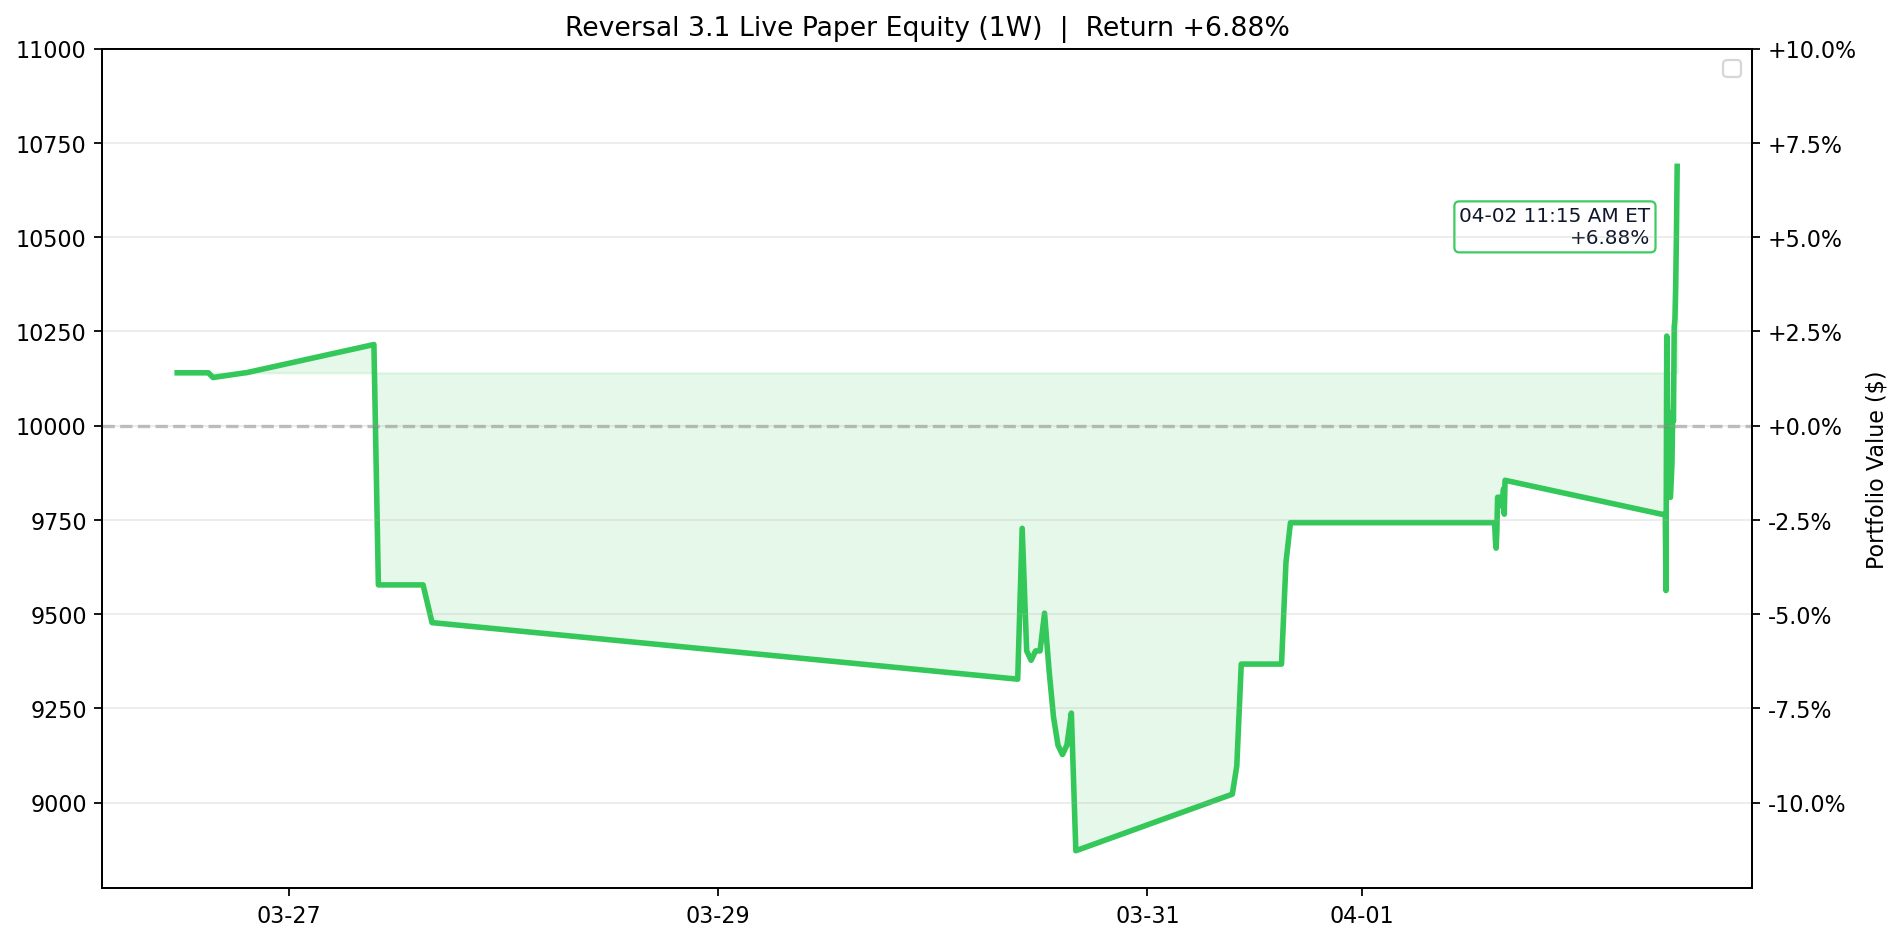
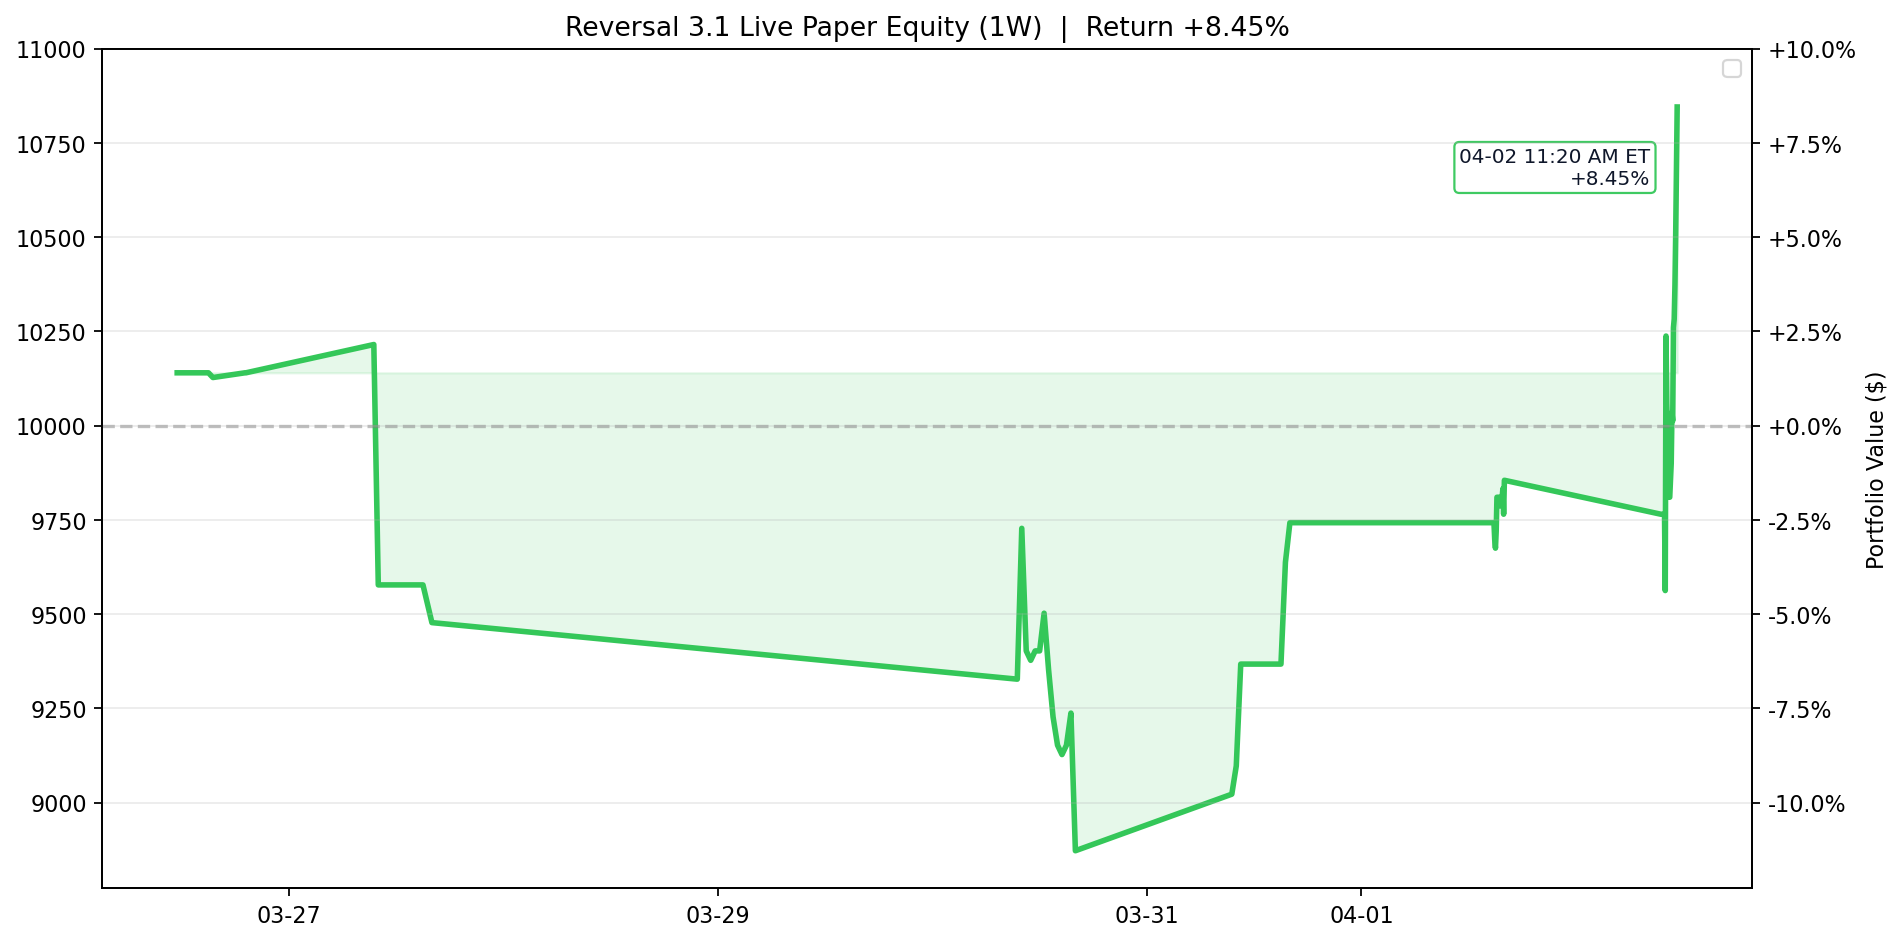
Update Reversal 3.1 live paper test 2026-04-02 11:20 ET

Changed region(s): [[0.7437, 0.123, 0.8986, 0.2768], [0.5268, 0.6458, 0.5578, 0.7073], [0.5888, 0.9533, 0.6197, 0.9841]]

diff --git a/results/reversal_3_1_live/README.md b/results/reversal_3_1_live/README.md
@@ -1,7 +1,7 @@
 # Reversal 3.1 Live Paper Test
 
-Last updated (ET): `2026-04-02 11:15:05 EDT`
-Last processed slot: `manual_refresh`
+Last updated (ET): `2026-04-02 11:20:05 EDT`
+Last processed slot: `manage_1130`
 
 ## Active Configuration
 
@@ -19,55 +19,55 @@ Last processed slot: `manual_refresh`
 
 ## Portfolio Snapshot
 
-- Cash: `$5,355.00`
-- Equity: `$10,687.50`
-- Realized PnL: `$-257.50`
-- Unrealized PnL: `$945.00`
-- Open positions: `1`
+- Cash: `$10,845.00`
+- Equity: `$10,845.00`
+- Realized PnL: `$845.00`
+- Unrealized PnL: `$0.00`
+- Open positions: `0`
 
 ## Open Positions
 
-```text
-ticker     contract_symbol entry_trade_date  business_days_held  entry_option_price  current_option_price  entry_spot  current_spot  unrealized_pnl  unrealized_return_pct  success_rate  matched_signals  current_drop_pct  entry_iv_pct  current_iv_pct  rolling_sigma_20d_pct
-  NFLX NFLX260508C00096000       2026-04-01                   1                4.88                  5.92       95.56         97.85           945.0                  21.54         94.87               39              0.58         41.74           42.85                  24.42
-```
+_None_
 
 ## Today's Closed Trades (2026-04-02)
 
-_None_
+```text
+ticker     contract_symbol entry_trade_date_et exit_trade_date_et  entry_option_price  exit_option_price    pnl  return_pct                  exit_reason
+  NFLX NFLX260508C00096000          2026-04-01         2026-04-02               4.875                6.1 1102.5   25.128205 take_profit_day1_hit_at_scan
+```
 
 ## Current Screener Snapshot
 
 ```text
 ticker  success_rate_%  matched_signals  current_drop_%  target_rebound_$  target_price  rolling_sigma_20d_%  call_candidate
-  TSLA          100.00               11            3.65              9.73        377.09                40.57            True
-   WDC           97.22               36            1.03              2.14        296.81                91.06            True
-  MPWR           91.89               37            0.51              4.00       1117.80                56.57            True
-  CDNS           90.70               43            0.87              1.70        279.46                26.25            True
-  MCHP           87.18               39            0.54              0.25         65.27                45.66            True
-  AMAT           84.85               33            1.01              2.50        352.73                59.65            True
-   TXN           84.85               33            0.59              0.81        195.95                33.08            True
-  TMUS           84.38               32            0.53              0.76        203.93                22.53            True
-  VRTX           83.78               37            0.87              2.72        446.09                39.75            True
-   CSX           83.33               18            1.10              0.32         41.30                27.84            True
-    MU           82.86               35            1.50              3.86        366.20                84.85            True
-   ADI           81.82               33            0.51              1.15        320.09                36.19            True
+   WDC           97.37               38            0.83              1.74        296.99                91.06            True
+  UPRO           92.50               40            0.60              0.41         98.99                57.18            True
+  MPWR           91.67               36            0.82              6.45       1116.74                56.57            True
+  CDNS           89.74               39            1.11              2.18        279.26                26.25            True
+   MAR           89.74               39            0.51              1.20        332.95                28.45            True
+  AMAT           86.11               36            0.82              2.02        352.93                59.65            True
+  MCHP           86.11               36            0.75              0.34         65.23                45.66            True
+  SOXL           85.29               34            0.79              0.29         52.14               138.72            True
+   CSX           85.00               20            0.97              0.28         41.32                27.84            True
+  VRTX           84.85               33            1.00              3.14        445.91                39.75            True
+  TMUS           84.38               32            0.51              0.74        203.93                22.53            True
+ GOOGL           84.21               38            0.64              1.33        296.82                35.66            True
 ```
 
 ## Recent Events
 
 ```text
-                    timestamp_et        slot   event_type                          detail
-2026-04-02T11:10:05.886103-04:00 manage_1100 slot_skipped {"reason": "already_processed"}
-2026-04-02T11:05:05.887015-04:00 manage_1100 slot_skipped {"reason": "already_processed"}
-2026-04-02T11:00:05.878856-04:00 manage_1100 slot_skipped {"reason": "already_processed"}
-2026-04-02T10:55:05.929146-04:00 manage_1100 slot_skipped {"reason": "already_processed"}
-2026-04-02T10:40:05.872686-04:00 manage_1030 slot_skipped {"reason": "already_processed"}
-2026-04-02T10:35:05.890056-04:00 manage_1030 slot_skipped {"reason": "already_processed"}
-2026-04-02T10:30:05.885804-04:00 manage_1030 slot_skipped {"reason": "already_processed"}
-2026-04-02T10:25:05.890764-04:00 manage_1030 slot_skipped {"reason": "already_processed"}
-2026-04-02T10:10:05.923370-04:00 manage_1000 slot_skipped {"reason": "already_processed"}
-2026-04-02T10:05:05.400756-04:00 manage_1000 slot_skipped {"reason": "already_processed"}
+                    timestamp_et        slot   event_type                                                                                                                                     detail
+2026-04-02T11:20:05.893680-04:00 manage_1130         exit {"contract_symbol": "NFLX260508C00096000", "pnl": 1102.5, "reason": "take_profit_day1_hit_at_scan", "return_pct": 25.13, "ticker": "NFLX"}
+2026-04-02T11:10:05.886103-04:00 manage_1100 slot_skipped                                                                                                            {"reason": "already_processed"}
+2026-04-02T11:05:05.887015-04:00 manage_1100 slot_skipped                                                                                                            {"reason": "already_processed"}
+2026-04-02T11:00:05.878856-04:00 manage_1100 slot_skipped                                                                                                            {"reason": "already_processed"}
+2026-04-02T10:55:05.929146-04:00 manage_1100 slot_skipped                                                                                                            {"reason": "already_processed"}
+2026-04-02T10:40:05.872686-04:00 manage_1030 slot_skipped                                                                                                            {"reason": "already_processed"}
+2026-04-02T10:35:05.890056-04:00 manage_1030 slot_skipped                                                                                                            {"reason": "already_processed"}
+2026-04-02T10:30:05.885804-04:00 manage_1030 slot_skipped                                                                                                            {"reason": "already_processed"}
+2026-04-02T10:25:05.890764-04:00 manage_1030 slot_skipped                                                                                                            {"reason": "already_processed"}
+2026-04-02T10:10:05.923370-04:00 manage_1000 slot_skipped                                                                                                            {"reason": "already_processed"}
 ```
 
 ## Equity Curve (1W)

diff --git a/README.md b/README.md
@@ -3,17 +3,14 @@
 <!-- reversal-3.1-live:start -->
 ## Reversal 3.1 Live Paper Test
 
-- Last updated (ET): `2026-04-02 11:15:05 EDT`
-- Equity: `$10,687.50` | Realized: `$-257.50` | Unrealized: `$945.00` | Open positions: `1`
-- Today closed trades: `0`
-- Current slot: `manual_refresh`
+- Last updated (ET): `2026-04-02 11:20:05 EDT`
+- Equity: `$10,845.00` | Realized: `$845.00` | Unrealized: `$0.00` | Open positions: `0`
+- Today closed trades: `1`
+- Current slot: `manage_1130`
 - Universe: `qqq_plus_leverage_etfs`
 - Chart: trailing `1W` with ET timestamps
 
-```text
-ticker     contract_symbol  current_option_price  unrealized_pnl  unrealized_return_pct  business_days_held
-  NFLX NFLX260508C00096000                  5.92           945.0                  21.54                   1
-```
+_None_
 
 ![Reversal 3.1 Live Equity 1W](assets/reversal_3_1_live_equity.png)
 
